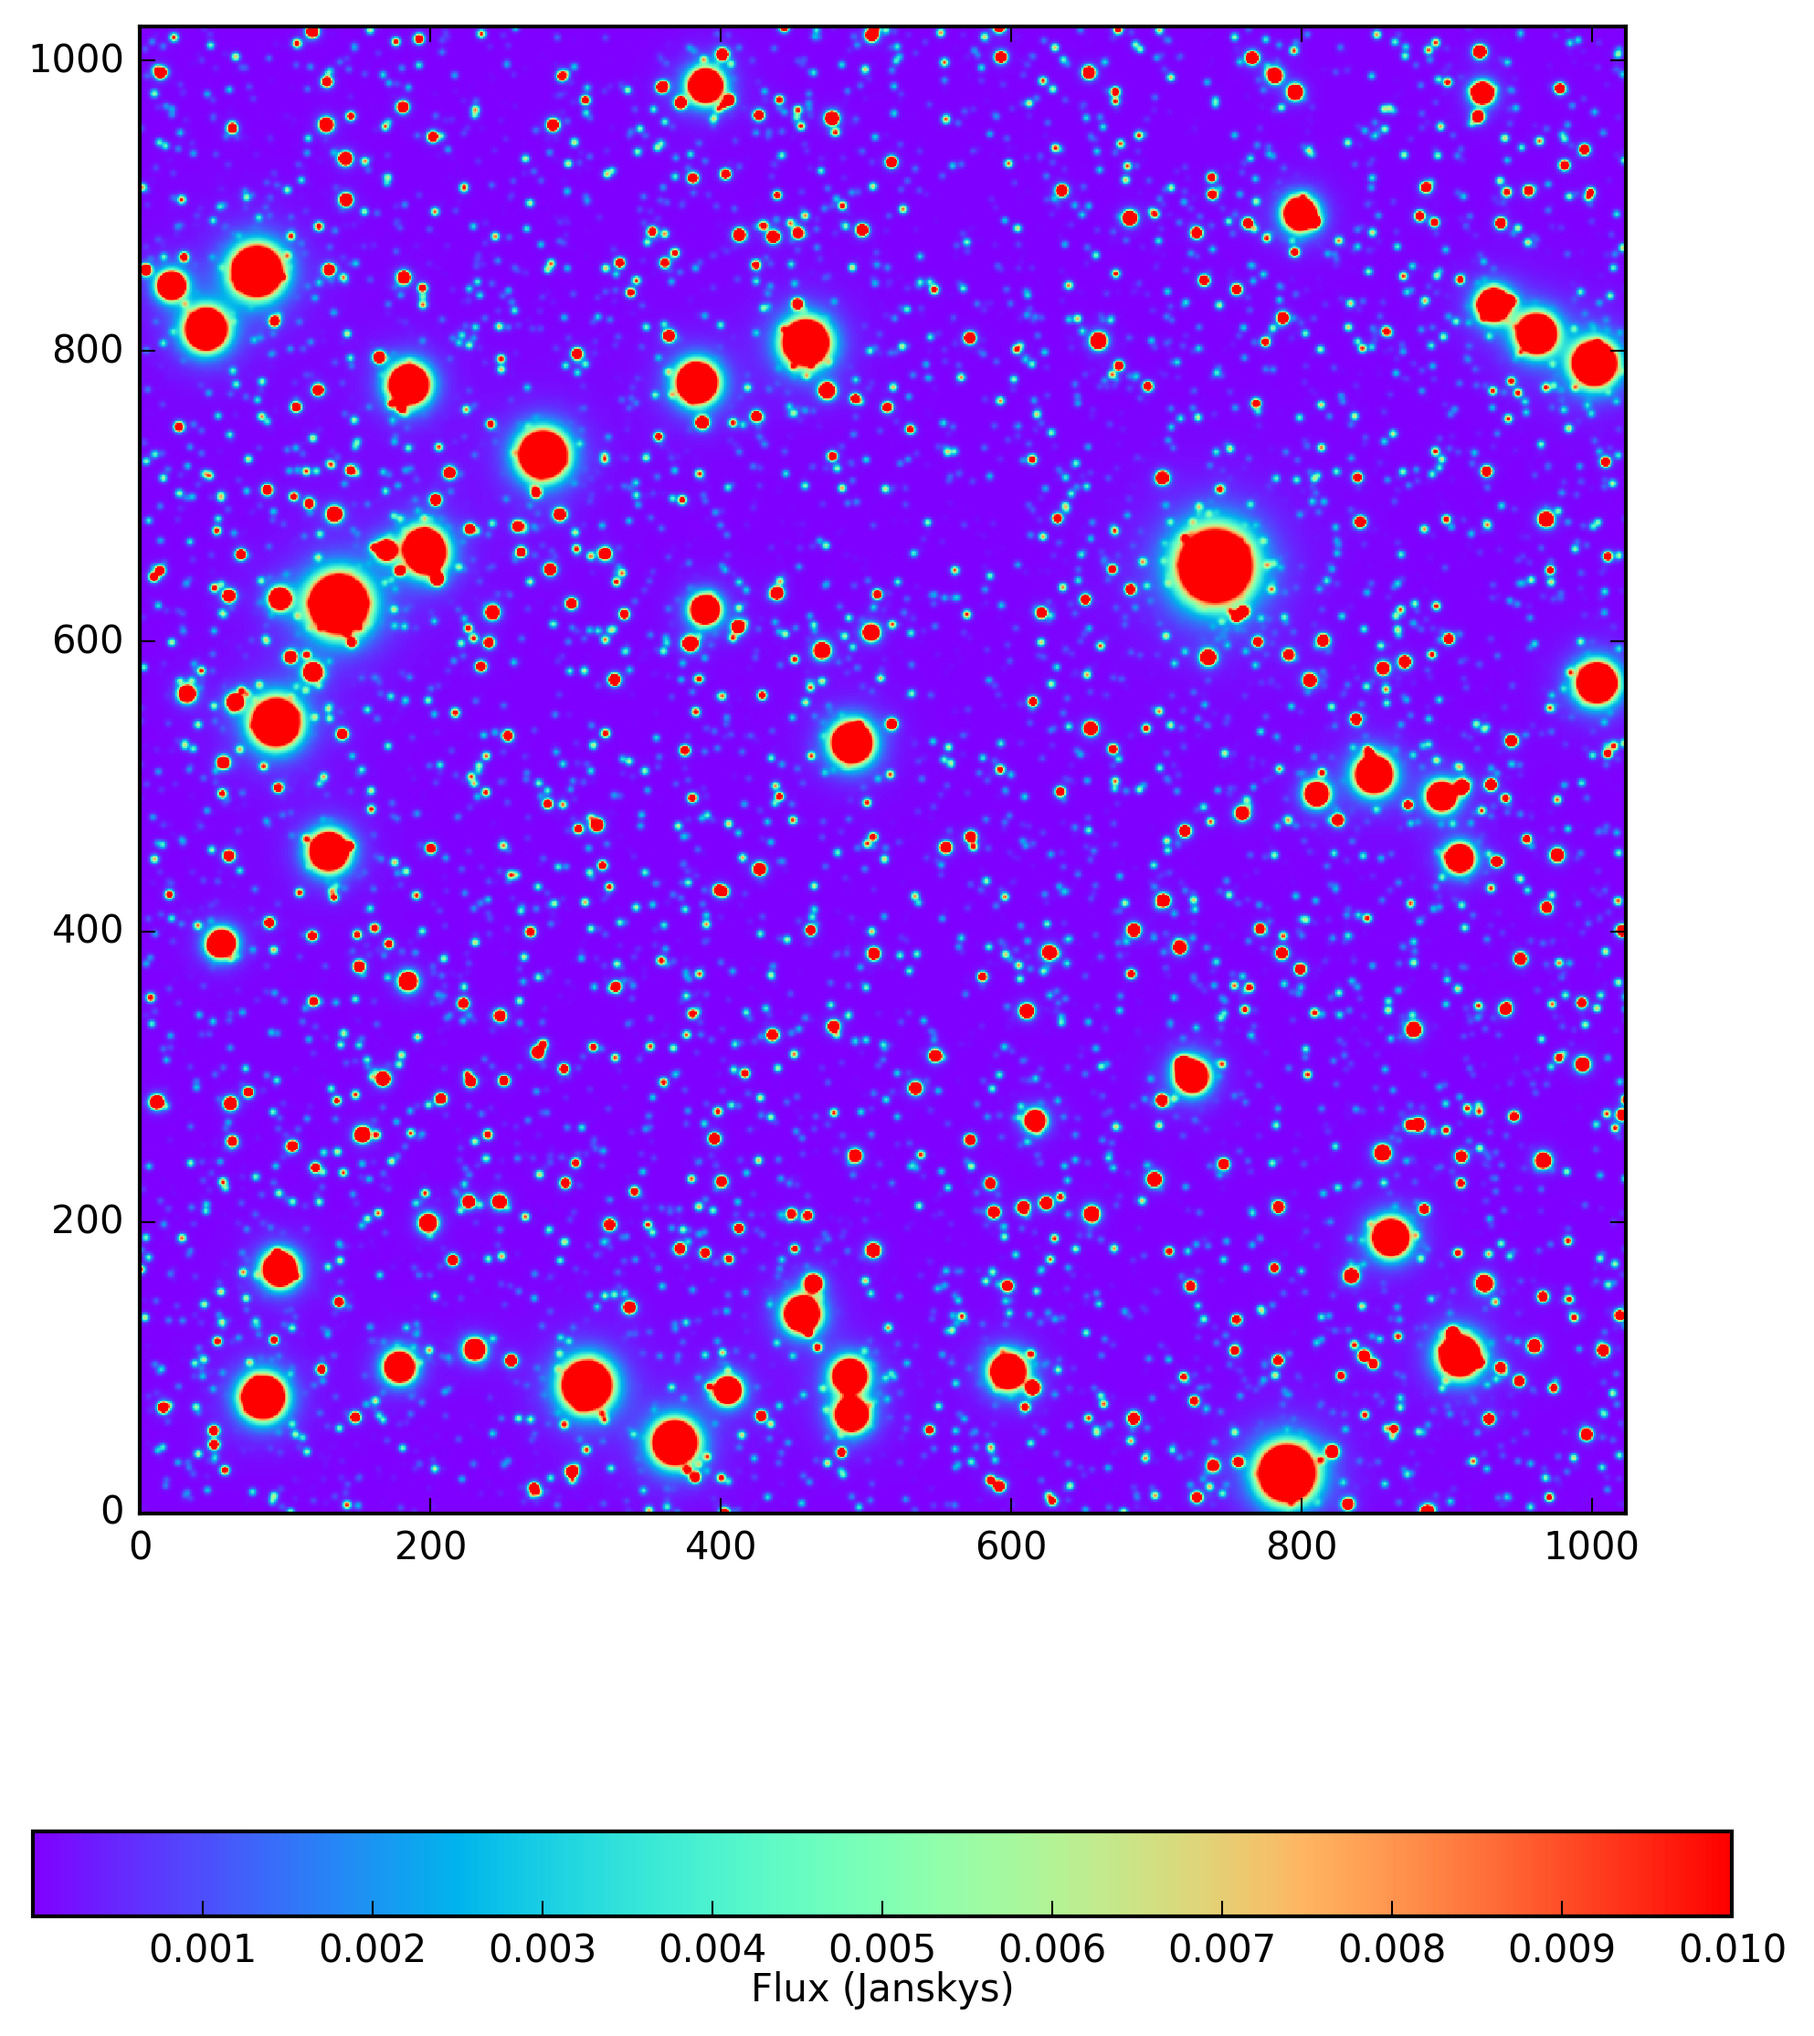
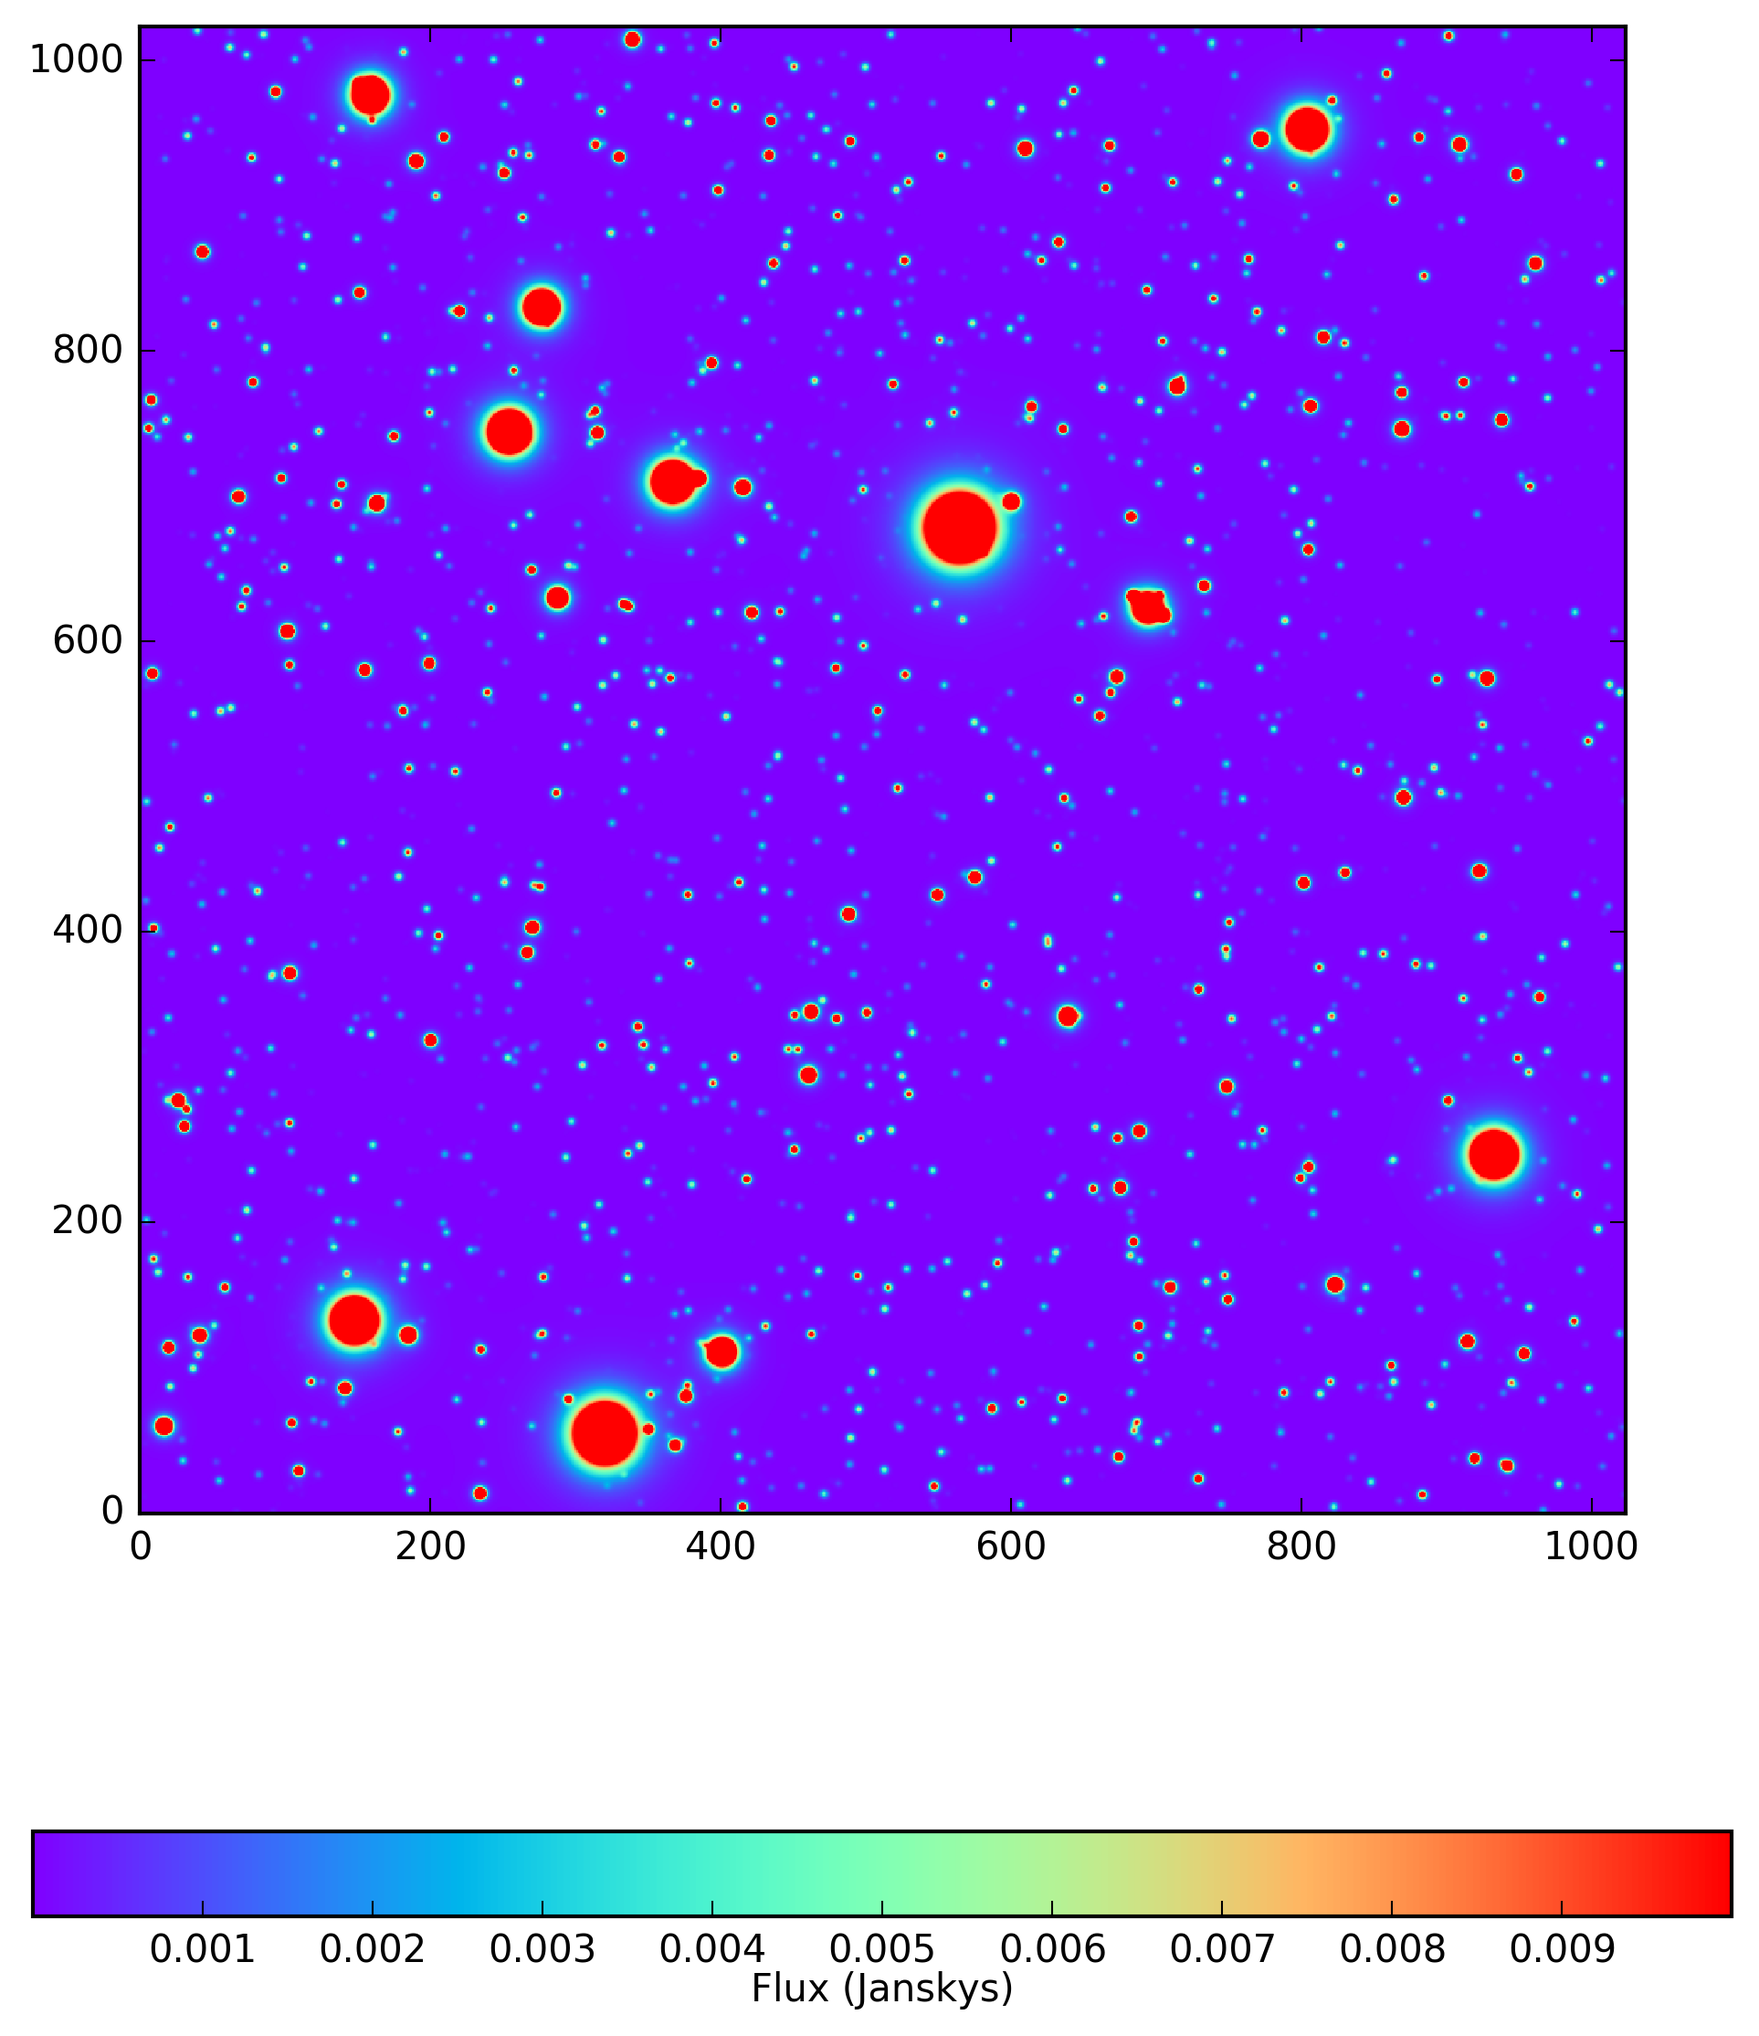
Update text with correct links, and update example images.

diff --git a/index.rst b/index.rst
@@ -39,18 +39,14 @@
 
 :tocdepth: 2
 
-Warning
-
-This technical note is currently a draft!
 
 #########
 StarFast - A Fast Simulation Tool for Testing Algorithms
 #########
-(Other name suggestions welcome!)
 
 Overview
 ========
-StarFast is a simple but fast simulation tool to generate images for testing algorithms. 
+StarFast is a simple but fast simulation tool to generate images for testing algorithms, and may be obtained from https://github.com/lsst-dm/starfast_simulator .
 It has been developed primarily with an aim to quickly generate many images affected by realistic Differential Chromatic Refraction (DCR) and astrometric errors, but it is hopefully general enough to be used for other cases when we need to test algorithms against simulated data. 
 
 It will generate a simulated catalog of stars (see :ref:`section-headings-sim-cat` below) and compute the flux in Janskys for each source given the instrument bandpass. 
@@ -58,12 +54,13 @@ For wavelength-dependent effects such as DCR, each band is divided into multiple
 Sources are convolved with the PSF in Fourier space (but see :ref:`section-headings-implementation` below for details), and any sub-band planes are stacked to produce the final image. 
 Noise may optionally be injected at any step, to simulate photon shot noise of the sources, flat spectrum sky noise, or noise from the electronics.
 
-Several example images are shown below, which were produced using the included iPython notebook (in _python/sim_fast example).
-Each image contains the same catalog of 10,000 stars, consisting of 5124 K, 3303 G, 1255 F, 274 A, and 44 B type stars (which can be obtained with the example notebook by setting seed = 5). 
+Several example images are shown below, which were produced using the included iPython notebook (https://github.com/lsst-dm/dmtn-012/blob/master/_python/StarFast_example.ipynb).
+Each image uses the same catalog of 10,000 stars, consisting of 5124 K, 3303 G, 1255 F, 274 A, and 44 B type stars (which can be obtained with the example notebook by setting seed = 5). 
 For this simulation I have generated two LSST u-band images: a 'reference' image at an airmass of 1.00 near zenith that used a single plane, and a 'science' image at an airmass of 1.20 that used 24 planes (a wavelength resolution of 3nm).
 Each star in the simulation uses a simulated Kurucz SED from sims_photUtils (https://github.com/lsst/sims_photUtils), and a Kolmogorov PSF from Galsim (https://github.com/GalSim-developers/GalSim).
-The initial simulation took ~70s on a single core of a 2015 MacBook Pro, and the science and reference images in Figures 1-3 each took an additional 30s to generate.
+The initial simulation took ~40s on a single core of a 2015 MacBook Pro, and the science and reference images in Figures 1-3 each took an additional 30s to generate.
 Further images of the same field in the same band would also take 30s on this machine, regardless of the number of sources in the field or the observing conditions (noise, elevation, or azimuth angle). 
+New simulations of the same field but under substantially diferent conditions such as sky rotation angle or filter 
 The science image is not visually different from the reference image on either color scale so only the difference image is displayed in Figure 3. 
 Note that the very hot and bright B type stars have a DCR dipole in the opposite direction of the cooler stars, which is precisely what a DCR algorithm must be designed to correct.
 
@@ -74,7 +71,7 @@ Note that the very hot and bright B type stars have a DCR dipole in the opposite
    :target: ../../_static/ref_img10000_log.png
    :alt: Simulated 1024x1024 image with 10,000 stars
 
-   Simulated 1024x1024 u-band image with 10,000 stars (logarithmic color scale).
+   Simulated 1024x1024 u-band image (logarithmic color scale).
 
 .. figure:: /_static/ref_img10000_linear.png
    :name: fig-ref-img-linear
